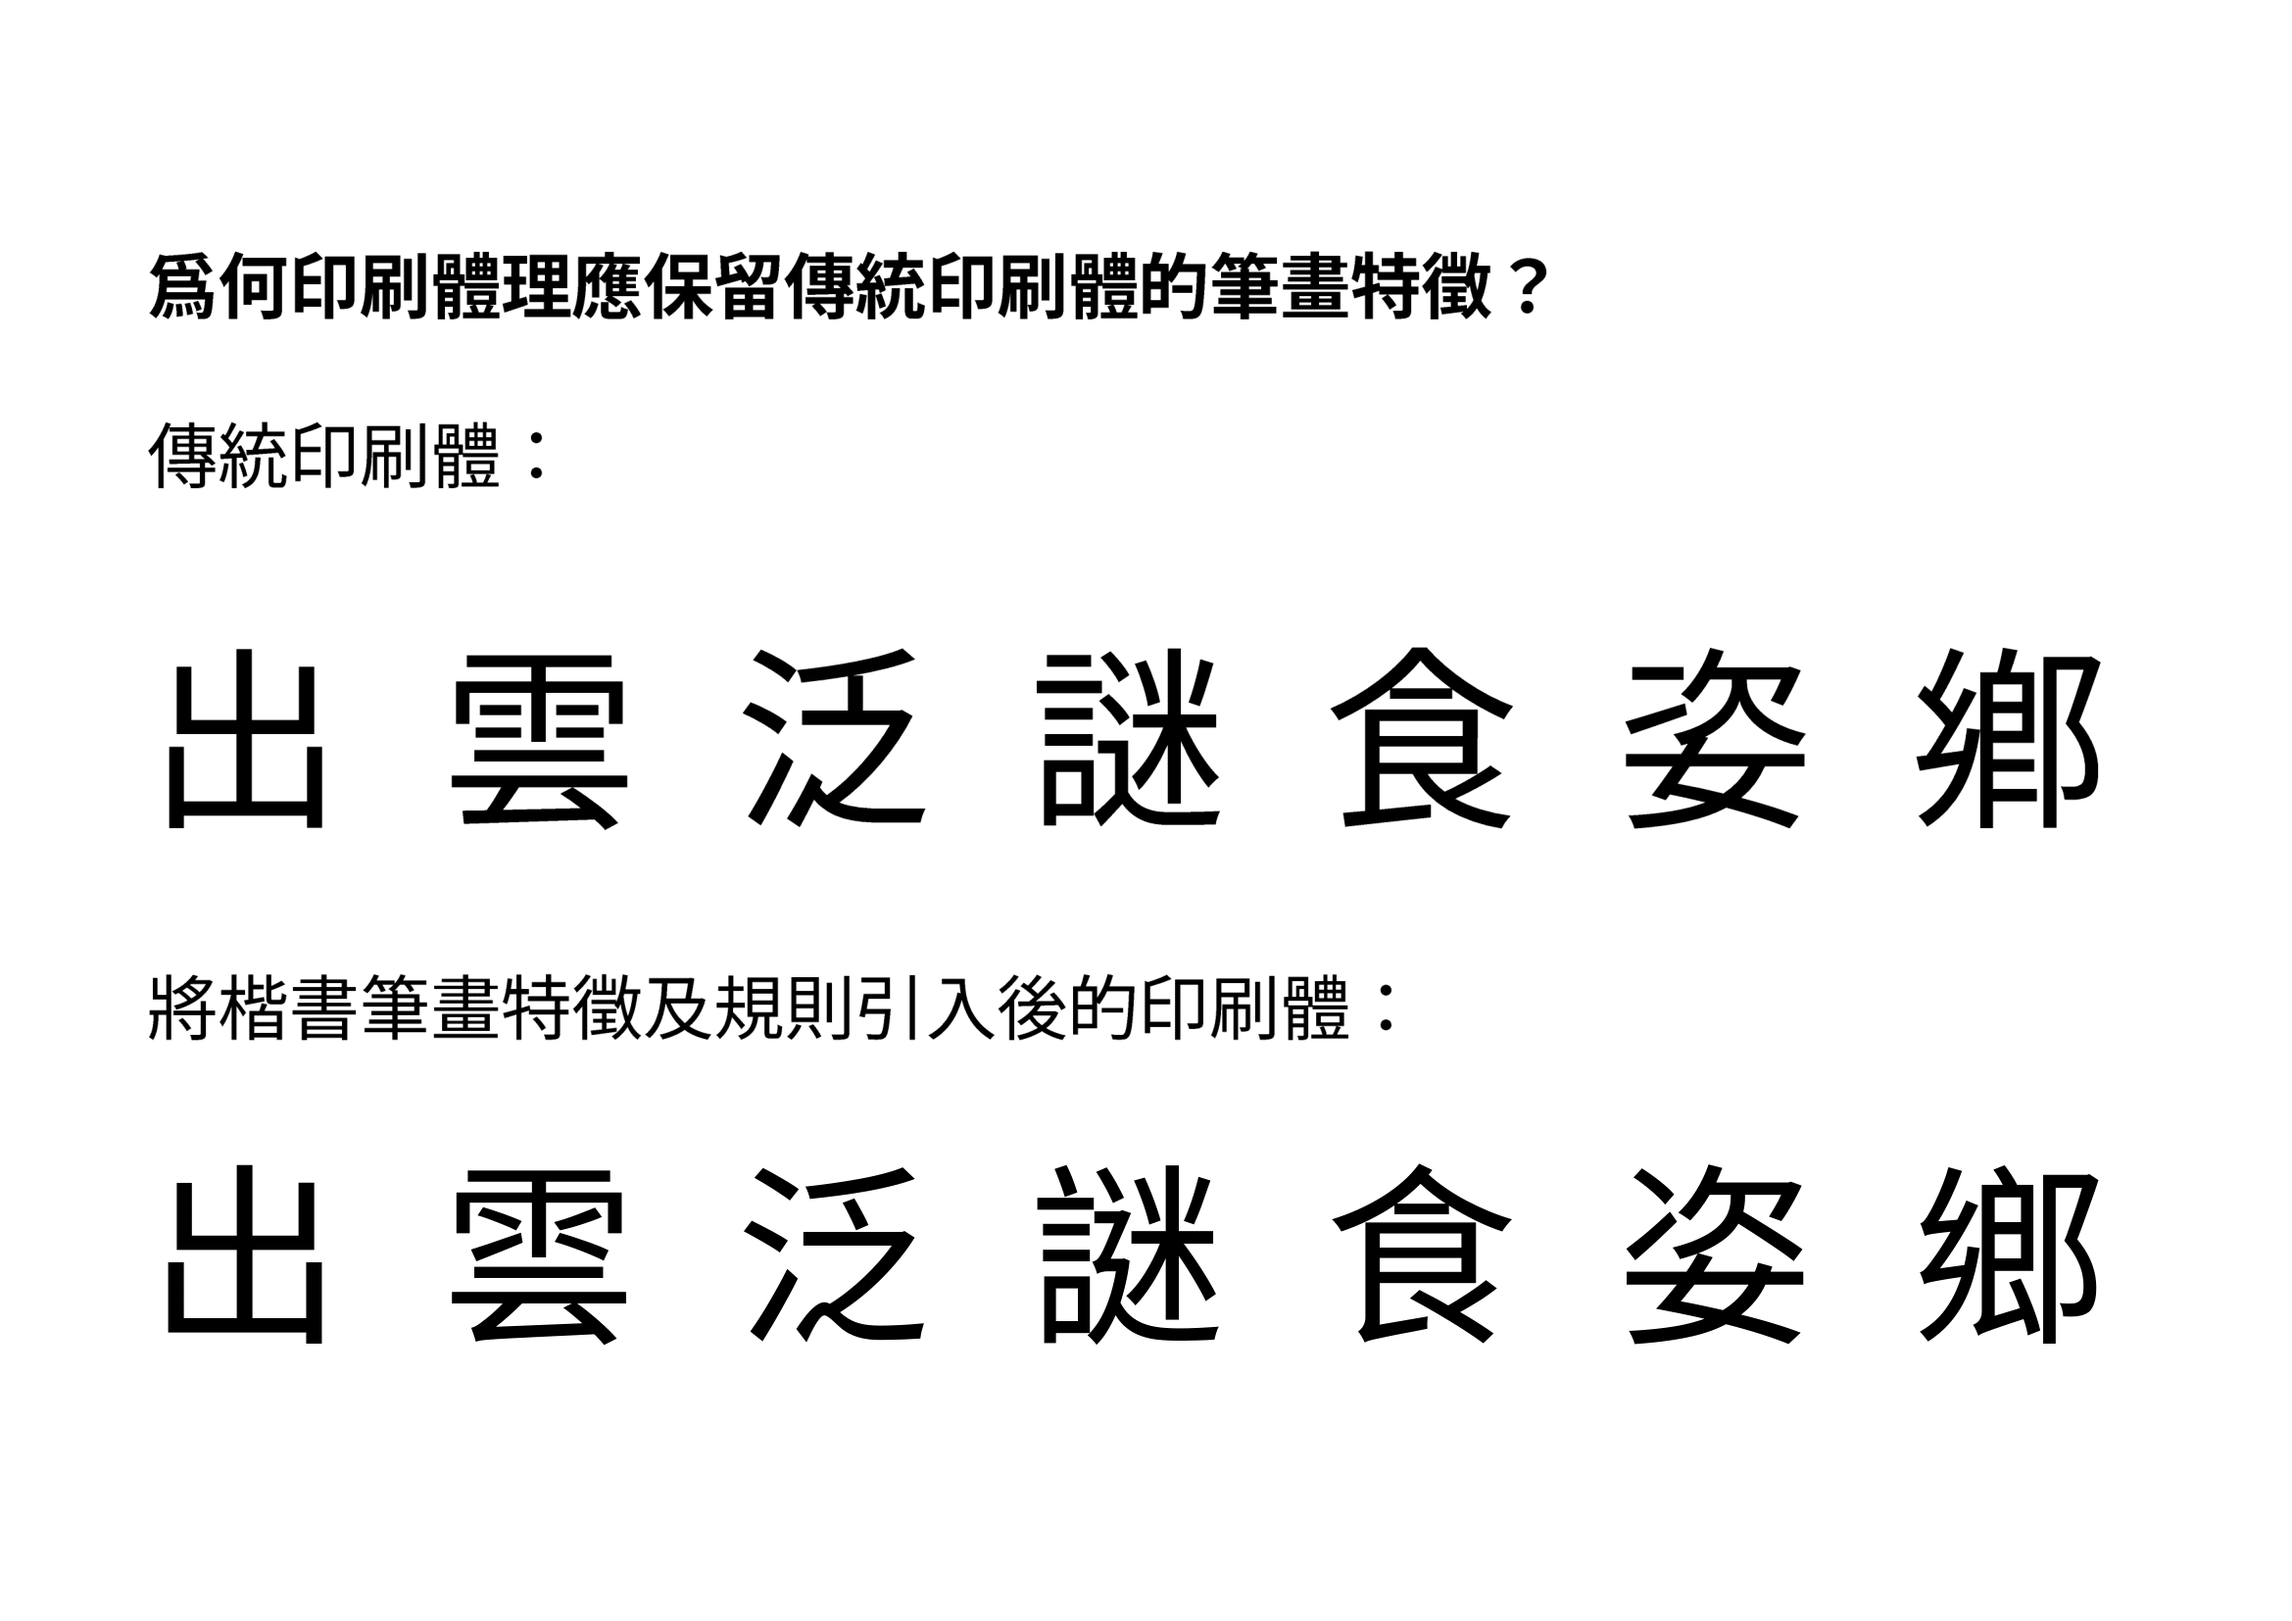
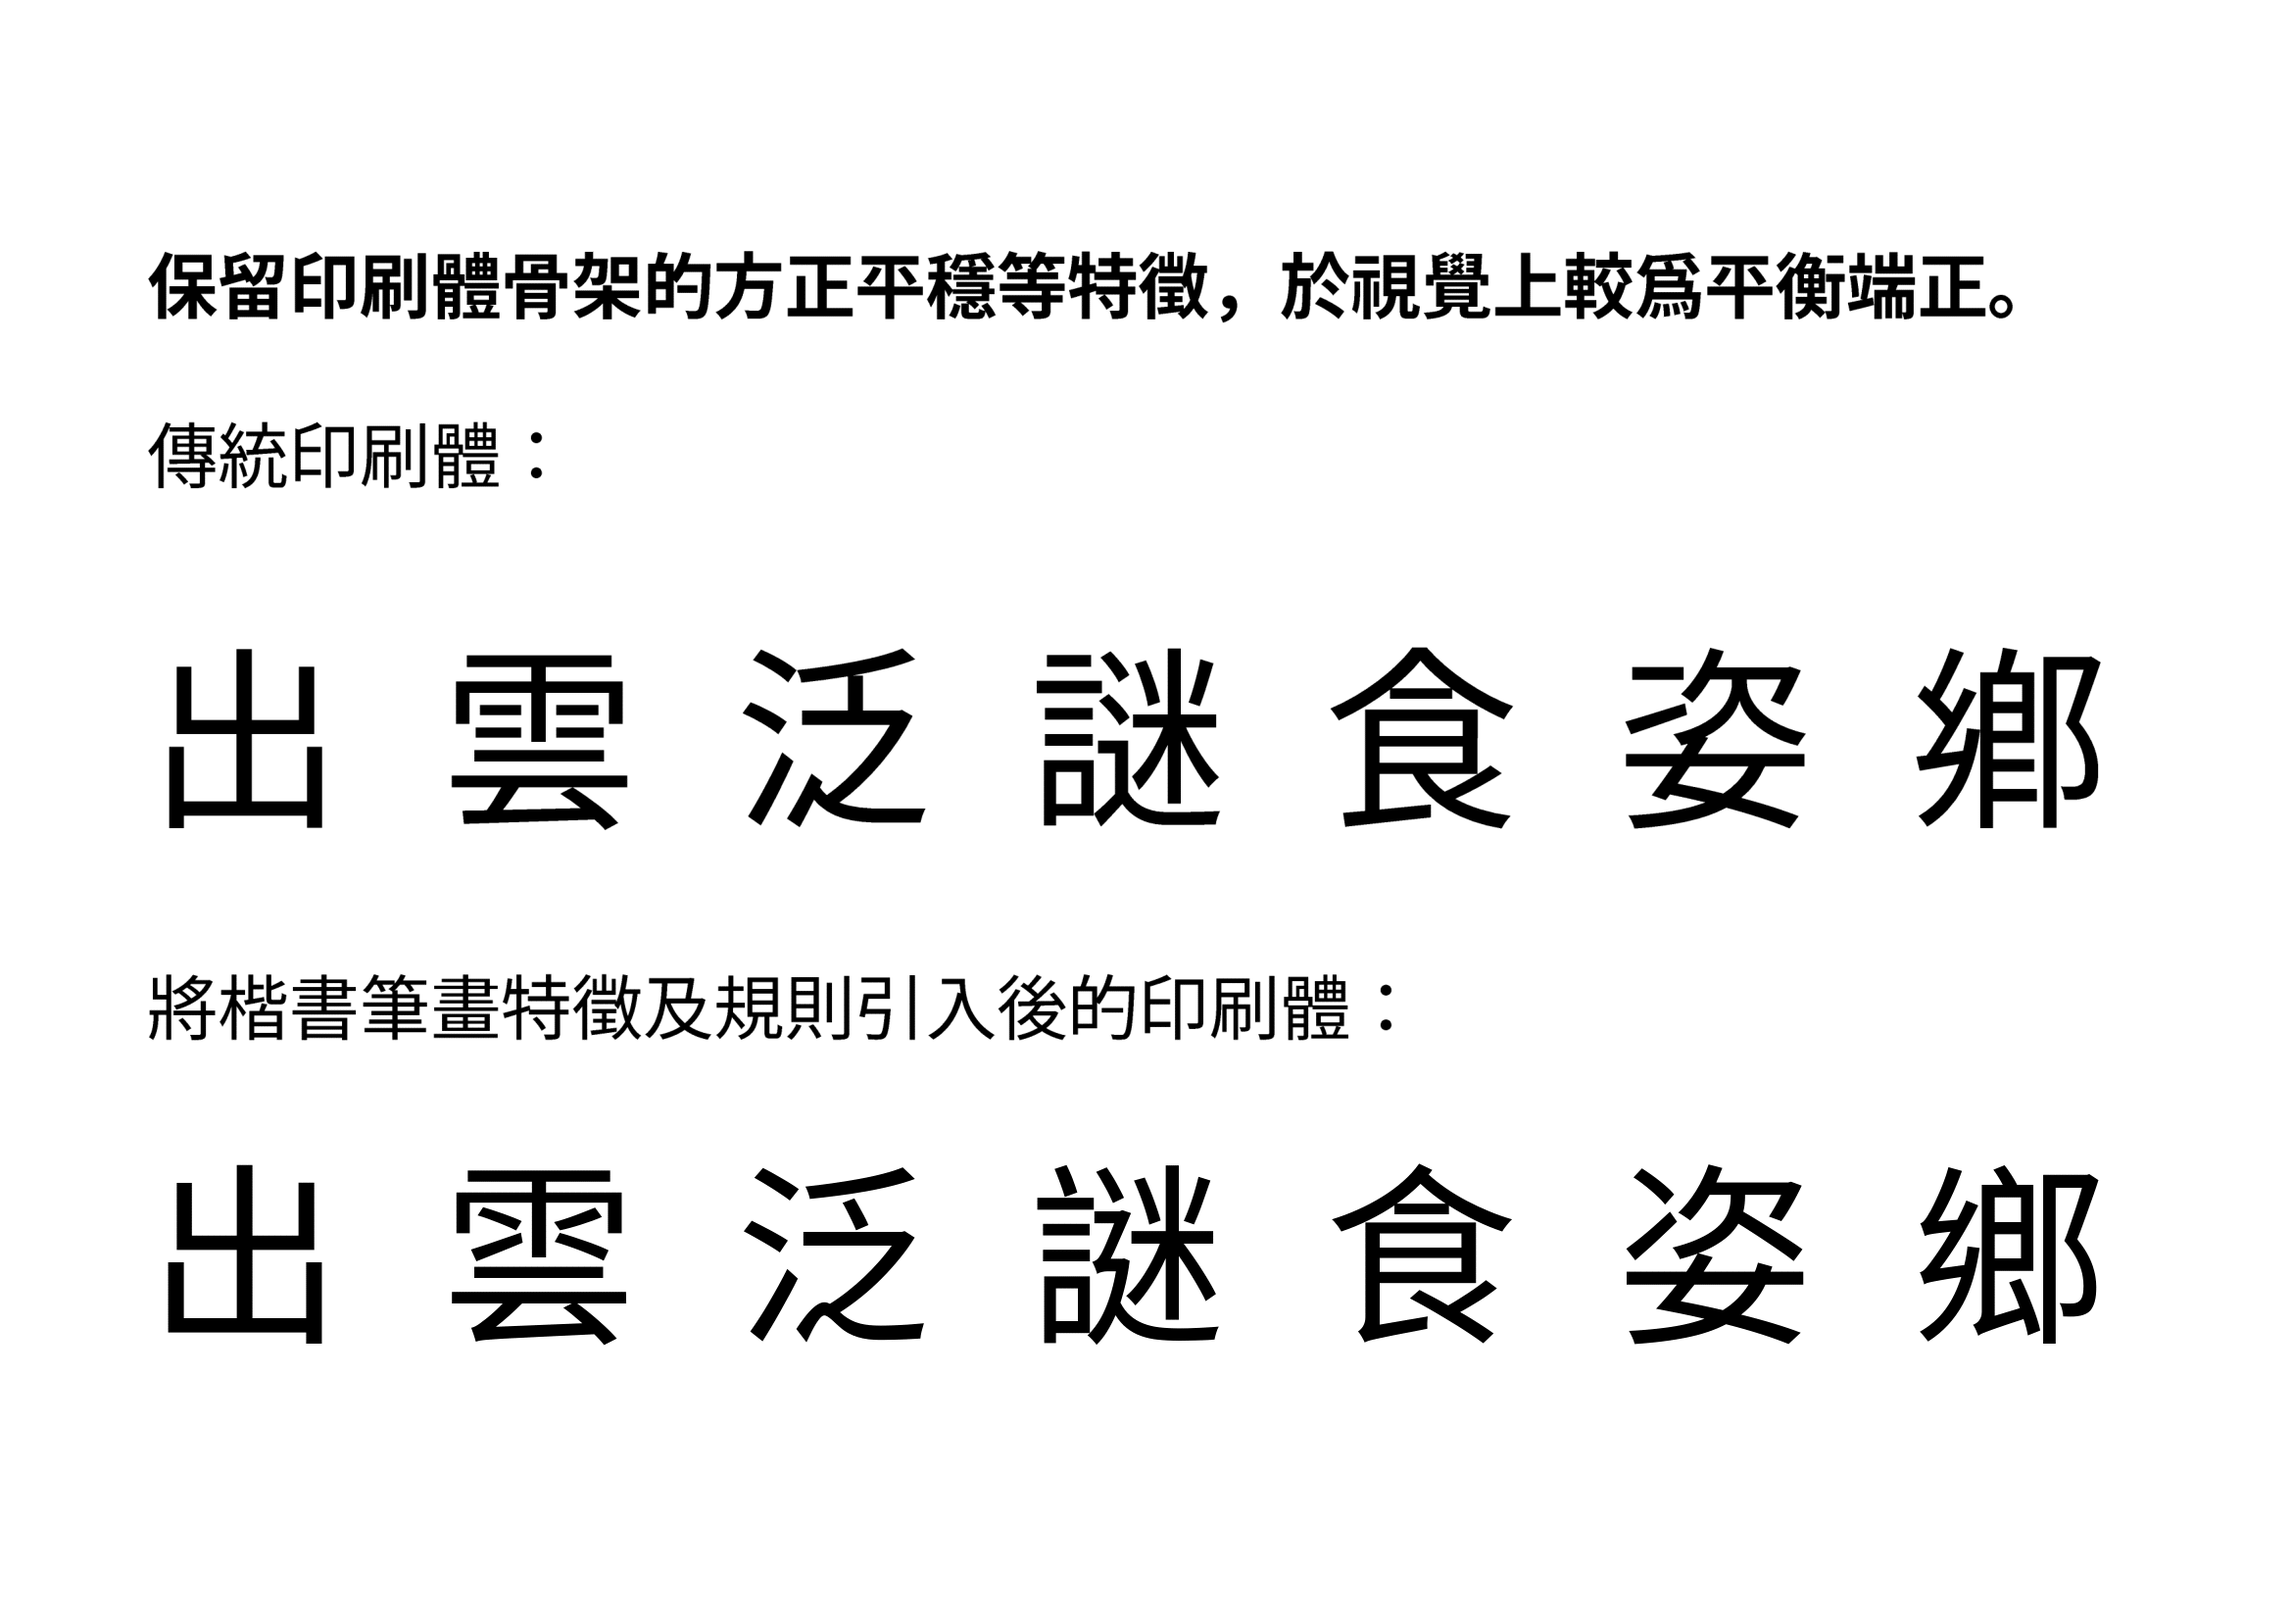
Update README.md

Changed region(s): [[0.2185, 0.1542, 0.8739, 0.2158], [0.0624, 0.1542, 0.1248, 0.2158]]

diff --git a/README.md b/README.md
@@ -1,5 +1,5 @@
 # ChiuKong Gothic 秋空黑體 秋空黑体 秋空ゴシック体
-
+![logo](./images/logo.png)
 ## 簡介
 A Chinese language font family project derived from Source Han Sans, with the integration of Ideographic variation sequence.
 
@@ -10,11 +10,10 @@ A Chinese language font family project derived from Source Han Sans, with the in
 
 ### 舊式印刷體字形版本（CL）
 所使用的默認字圖字形爲各地漢字改革以前慣常使用的活字印刷字形，其字形選定基準大致與「いわゆる康煕字典体」相同。因簡化字修改進程仍未完善及簡化字用戶可能並不習慣舊字形考慮下，目前僅推薦於傳統漢字的場景下使用。
-
+![VersionCL](./images/versionCL.png)
 ### 現代印刷風格字形版本（MN）
- 所使用的默認字圖字形爲兼顧當代慣用字形及印刷體風格的現代漢字印刷體風格字形，如有兼顧簡化字使用場景的需求推薦使用該分流版本。
-
-
+ 所使用的默認字圖字形爲兼顧當代慣用筆形及保留印刷體骨架的新舊字形混合印刷體風格字形。如有兼顧簡化字使用場景的需求推薦使用該分流版本，但仍建議主要於傳統漢字的場景下使用。
+![VersionMN](./images/versionMN.png)
 
 > 註：無論是CL版還是MN版都可以利用字體整合的異體字選擇器功能選擇字符的其他字形，簡單來說卽使用MN版時亦可透過異體字選擇器指定CL版本默認字圖爲該字符的指定字形字樣。
 
@@ -39,7 +38,7 @@ A Chinese language font family project derived from Source Han Sans, with the in
 故本專案決定實裝已經在日語社區使用有一段時間的異體字選擇器，其將可以有效解決純文本異體字編排難的問題。卽透過這一功能使不用切換字體就可以達到在純文本的場景下同時顯示同編碼字符的不同字形，同時亦能透過使用異體字選擇器滿足部分使用者有對特定字符有指定字形的需求。
 
 #### 異體字選擇器效果預覽
-
+![IVS-Sample2](./images/IVS-Sample2.png)
 #### 使用方法
 
 - **直接輸入變體選擇符**
